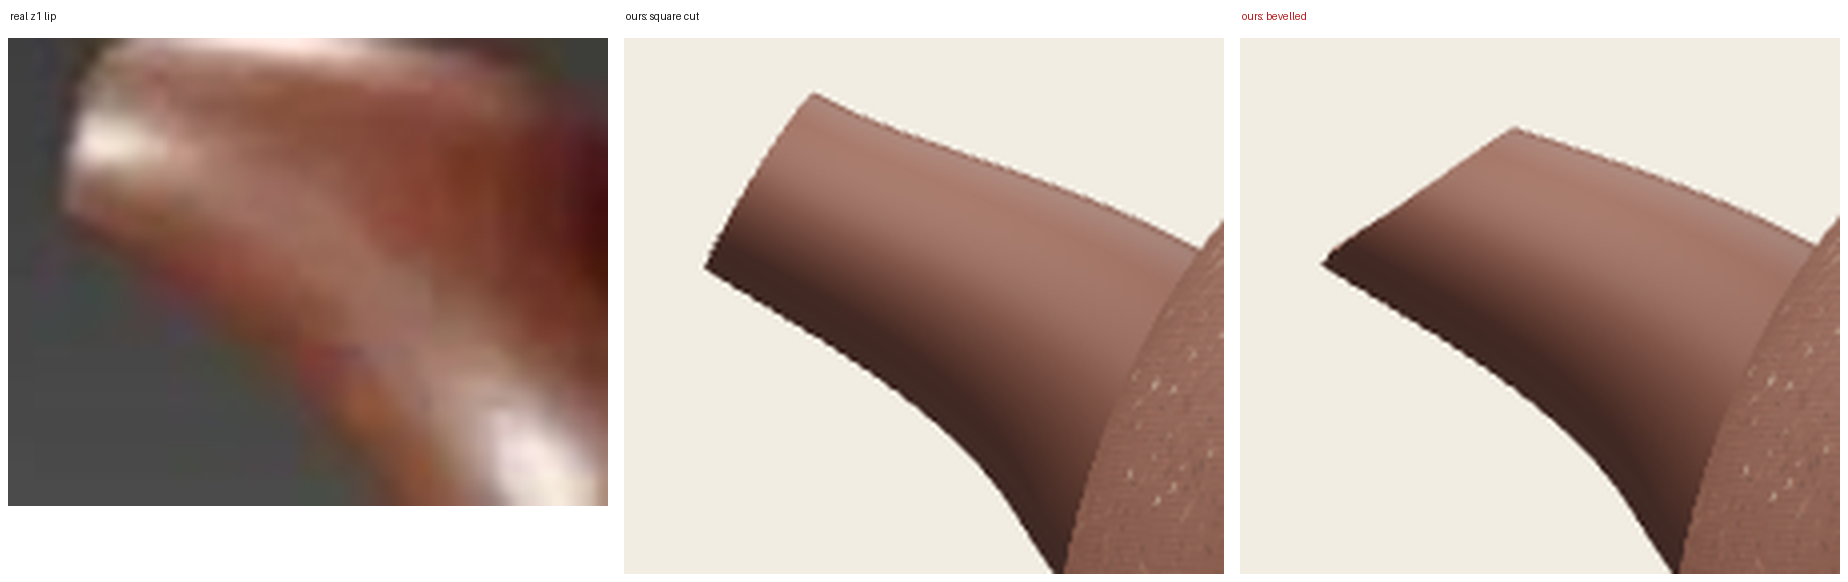
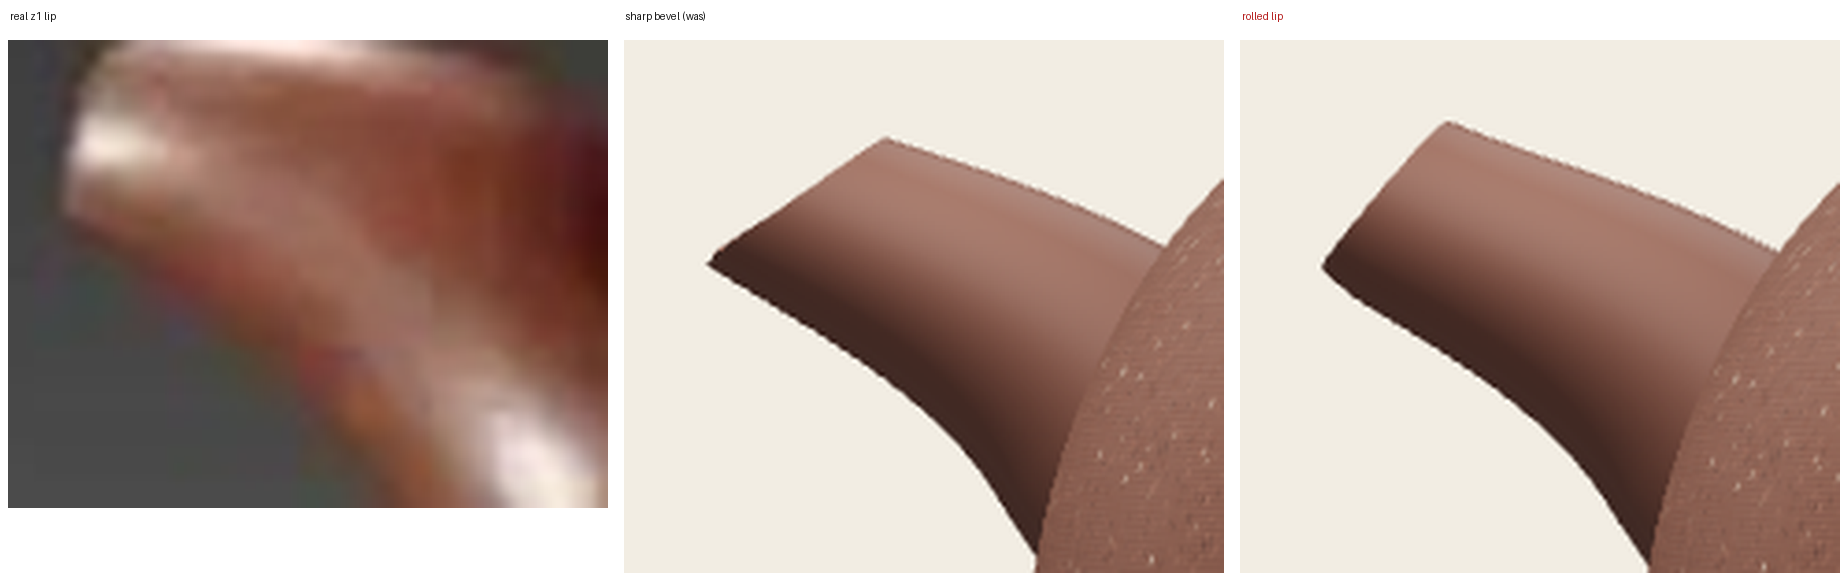
流口: roll the rim instead of cutting it to an edge
The oblique cut was right in direction but wrong in character: it drew the tip
out to a long knife edge, and on a pot whose whole point is roundness that one
sharp detail carries much further than its size.

sweptTube gains `lipRoll`. Over the last stretch of the curve the outer surface
turns in and the bore turns out along a quarter circle about the wall's
mid-line, so the wall finishes as a rounded rim — the end of a thick straw
rather than a blade. The roll stops just short of closing, which leaves a sliver
of annulus and keeps the tip triangles non-degenerate.

The bevel stays, at a third of its previous strength: enough that the opening
still faces up and forward (the check still measures the underside leading, now
by 0.029), not so much that it points. Wall thickened to suit a rounder rim.

Twelve-view QC; canon and details pass on all six pots.

Claude-Session: https://claude.ai/code/session_01Au3NkrP4Zh9Vb2uEzJxxmj

diff --git a/src/geometry/sweep.js b/src/geometry/sweep.js
@@ -4,7 +4,7 @@ import * as THREE from 'three'
  * Tube of varying radius along a curve — three's TubeGeometry is fixed-radius,
  * but a hand-formed strap or spout is never a constant tube.
  */
-export function sweptTube(curve, radiusAt, tubular = 72, radial = 16, innerAt = null, bevel = 0) {
+export function sweptTube(curve, radiusAt, tubular = 72, radial = 16, innerAt = null, bevel = 0, lipRoll = 0) {
   // With innerAt the sweep is a *walled* tube: an outer surface, an inner bore
   // and an annulus closing them at the tip. Without a bore a spout has no wall
   // at the pour opening, which the DSL forbids — no surface without a back face.
@@ -42,6 +42,25 @@ export function sweptTube(curve, radiusAt, tubular = 72, radial = 16, innerAt = 
     return u * u * (3 - 2 * u)
   }
   const param = (t, j) => Math.min(1, Math.max(0, t - cut[j] * ramp(t)))
+
+  // A rolled lip. Cut square (or worse, cut oblique to a long point) the rim is
+  // a knife edge, and on a pot whose whole character is roundness that one
+  // sharp detail carries. Over the last `lipRoll` of the curve the outer
+  // surface turns in and the bore turns out along a quarter circle, so the wall
+  // finishes as a rounded rim — the end of a thick straw rather than a blade.
+  // Stopping just short of closing leaves a sliver of annulus, which keeps the
+  // tip triangles non-degenerate.
+  const rollPhi = (t) => {
+    if (lipRoll <= 0) return 0
+    const u = Math.max(0, (t - (1 - lipRoll)) / lipRoll)
+    return u * (Math.PI / 2) * 0.86
+  }
+  const rolled = (t, rOut, rIn) => {
+    const phi = rollPhi(t)
+    if (phi <= 0) return [rOut, rIn]
+    const mid = (rOut + rIn) / 2, half = (rOut - rIn) / 2
+    return [mid + half * Math.cos(phi), mid - half * Math.cos(phi)]
+  }
   const pos = [], nor = [], idx = []
   for (let i = 0; i <= tubular; i++) {
     const t = i / tubular
@@ -50,7 +69,7 @@ export function sweptTube(curve, radiusAt, tubular = 72, radial = 16, innerAt = 
     for (let j = 0; j <= radial; j++) {
       const tt = param(t, j)
       const P = curve.getPointAt(tt)
-      const r = radiusAt(tt)
+      const r = innerAt ? rolled(tt, radiusAt(tt), Math.max(innerAt(tt), 0.004))[0] : radiusAt(tt)
       const v = (j / radial) * Math.PI * 2
       const sn = Math.sin(v), cs = -Math.cos(v)
       const nx = cs * N.x + sn * B.x
@@ -78,7 +97,7 @@ export function sweptTube(curve, radiusAt, tubular = 72, radial = 16, innerAt = 
       for (let j = 0; j <= radial; j++) {
         const tt = param(t, j)
         const P = curve.getPointAt(tt)
-        const r = Math.max(innerAt(tt), 0.004)
+        const r = rolled(tt, radiusAt(tt), Math.max(innerAt(tt), 0.004))[1]
         const v = (j / radial) * Math.PI * 2
         const sn = Math.sin(v), cs = -Math.cos(v)
         const nx = cs * N.x + sn * B.x

diff --git a/src/components/spouts.js b/src/components/spouts.js
@@ -54,6 +54,9 @@ export const SPOUTS = {
       // which no potter would leave; the real ones open upward and forward so
       // the underside finishes as the thin edge the stream leaves from.
       bevel: { label: '口斜', min: 0, max: 0.3, step: 0.01, default: 0.12 },
+      // how far back the rim rolls over. A square or knife-edged lip is the one
+      // sharp thing on an otherwise round pot and it shows.
+      lipRoll: { label: '口圆', min: 0, max: 0.2, step: 0.005, default: 0.06 },
       rootR: { label: '根径', min: 0.05, max: 0.26, step: 0.002, default: 0.155 },
       tipR: { label: '口径', min: 0.02, max: 0.12, step: 0.002, default: 0.058 },
       wall: { label: '壁厚', min: 0.005, max: 0.03, step: 0.001, default: 0.014 },
@@ -107,7 +110,7 @@ export const SPOUTS = {
         p.tipR + (p.rootR - p.tipR) * Math.pow(1 - t, p.flare ?? 2.6)
       const tube = new THREE.Mesh(
         sweptTube(curve, outerAt, 96, 24,
-          (t) => Math.max(outerAt(t) - p.wall, 0.005), p.bevel ?? 0),
+          (t) => Math.max(outerAt(t) - p.wall, 0.005), p.bevel ?? 0, p.lipRoll ?? 0),
         material,
       )
       tube.userData.centreline = curve.getPoints(160)

diff --git a/public/refs/index.html b/public/refs/index.html
@@ -43,7 +43,7 @@
 <figure><figcaption>掇球 — three reference spouts at maximum zoom: the bend is at the root, then it straightens</figcaption>
 <a href="spout_zoom.png"><img src="spout_zoom.png" alt=""></a></figure>
 
-<figure><figcaption>掇球 — the 流口 bevel: real lip, our square cut, our bevelled cut</figcaption>
+<figure><figcaption>掇球 — the 流口: real lip, our old sharp bevel, our rolled lip</figcaption>
 <a href="lip.png"><img src="lip.png" alt=""></a></figure>
 
 <figure><figcaption>掇球 — brim width against dome height, swept against both references</figcaption>

diff --git a/README.md b/README.md
@@ -222,7 +222,11 @@ running out to the thin edge the stream leaves from. `sweptTube` takes a
 and the bore stay matched and the tip annulus closes however oblique the cut.
 Which side to shorten is *not* readable off a shaded render — I read it
 backwards once — so the geometry records where its tip ring is and the check
-measures the two edges along the tube's own axis.
+measures the two edges along the tube's own axis. The rim is also *rolled*:
+over the last stretch the outer surface turns in and the bore turns out along
+a quarter circle, so the wall finishes round, like the end of a thick straw.
+A knife-edged lip is the one sharp thing on a pot whose whole character is
+roundness, and it carries further than its size suggests.
 
 **Log curve, not square curve.** A 一弯嘴 turns hard where it leaves the belly
 and then straightens — steep first, flattening after. Bend it the other way
